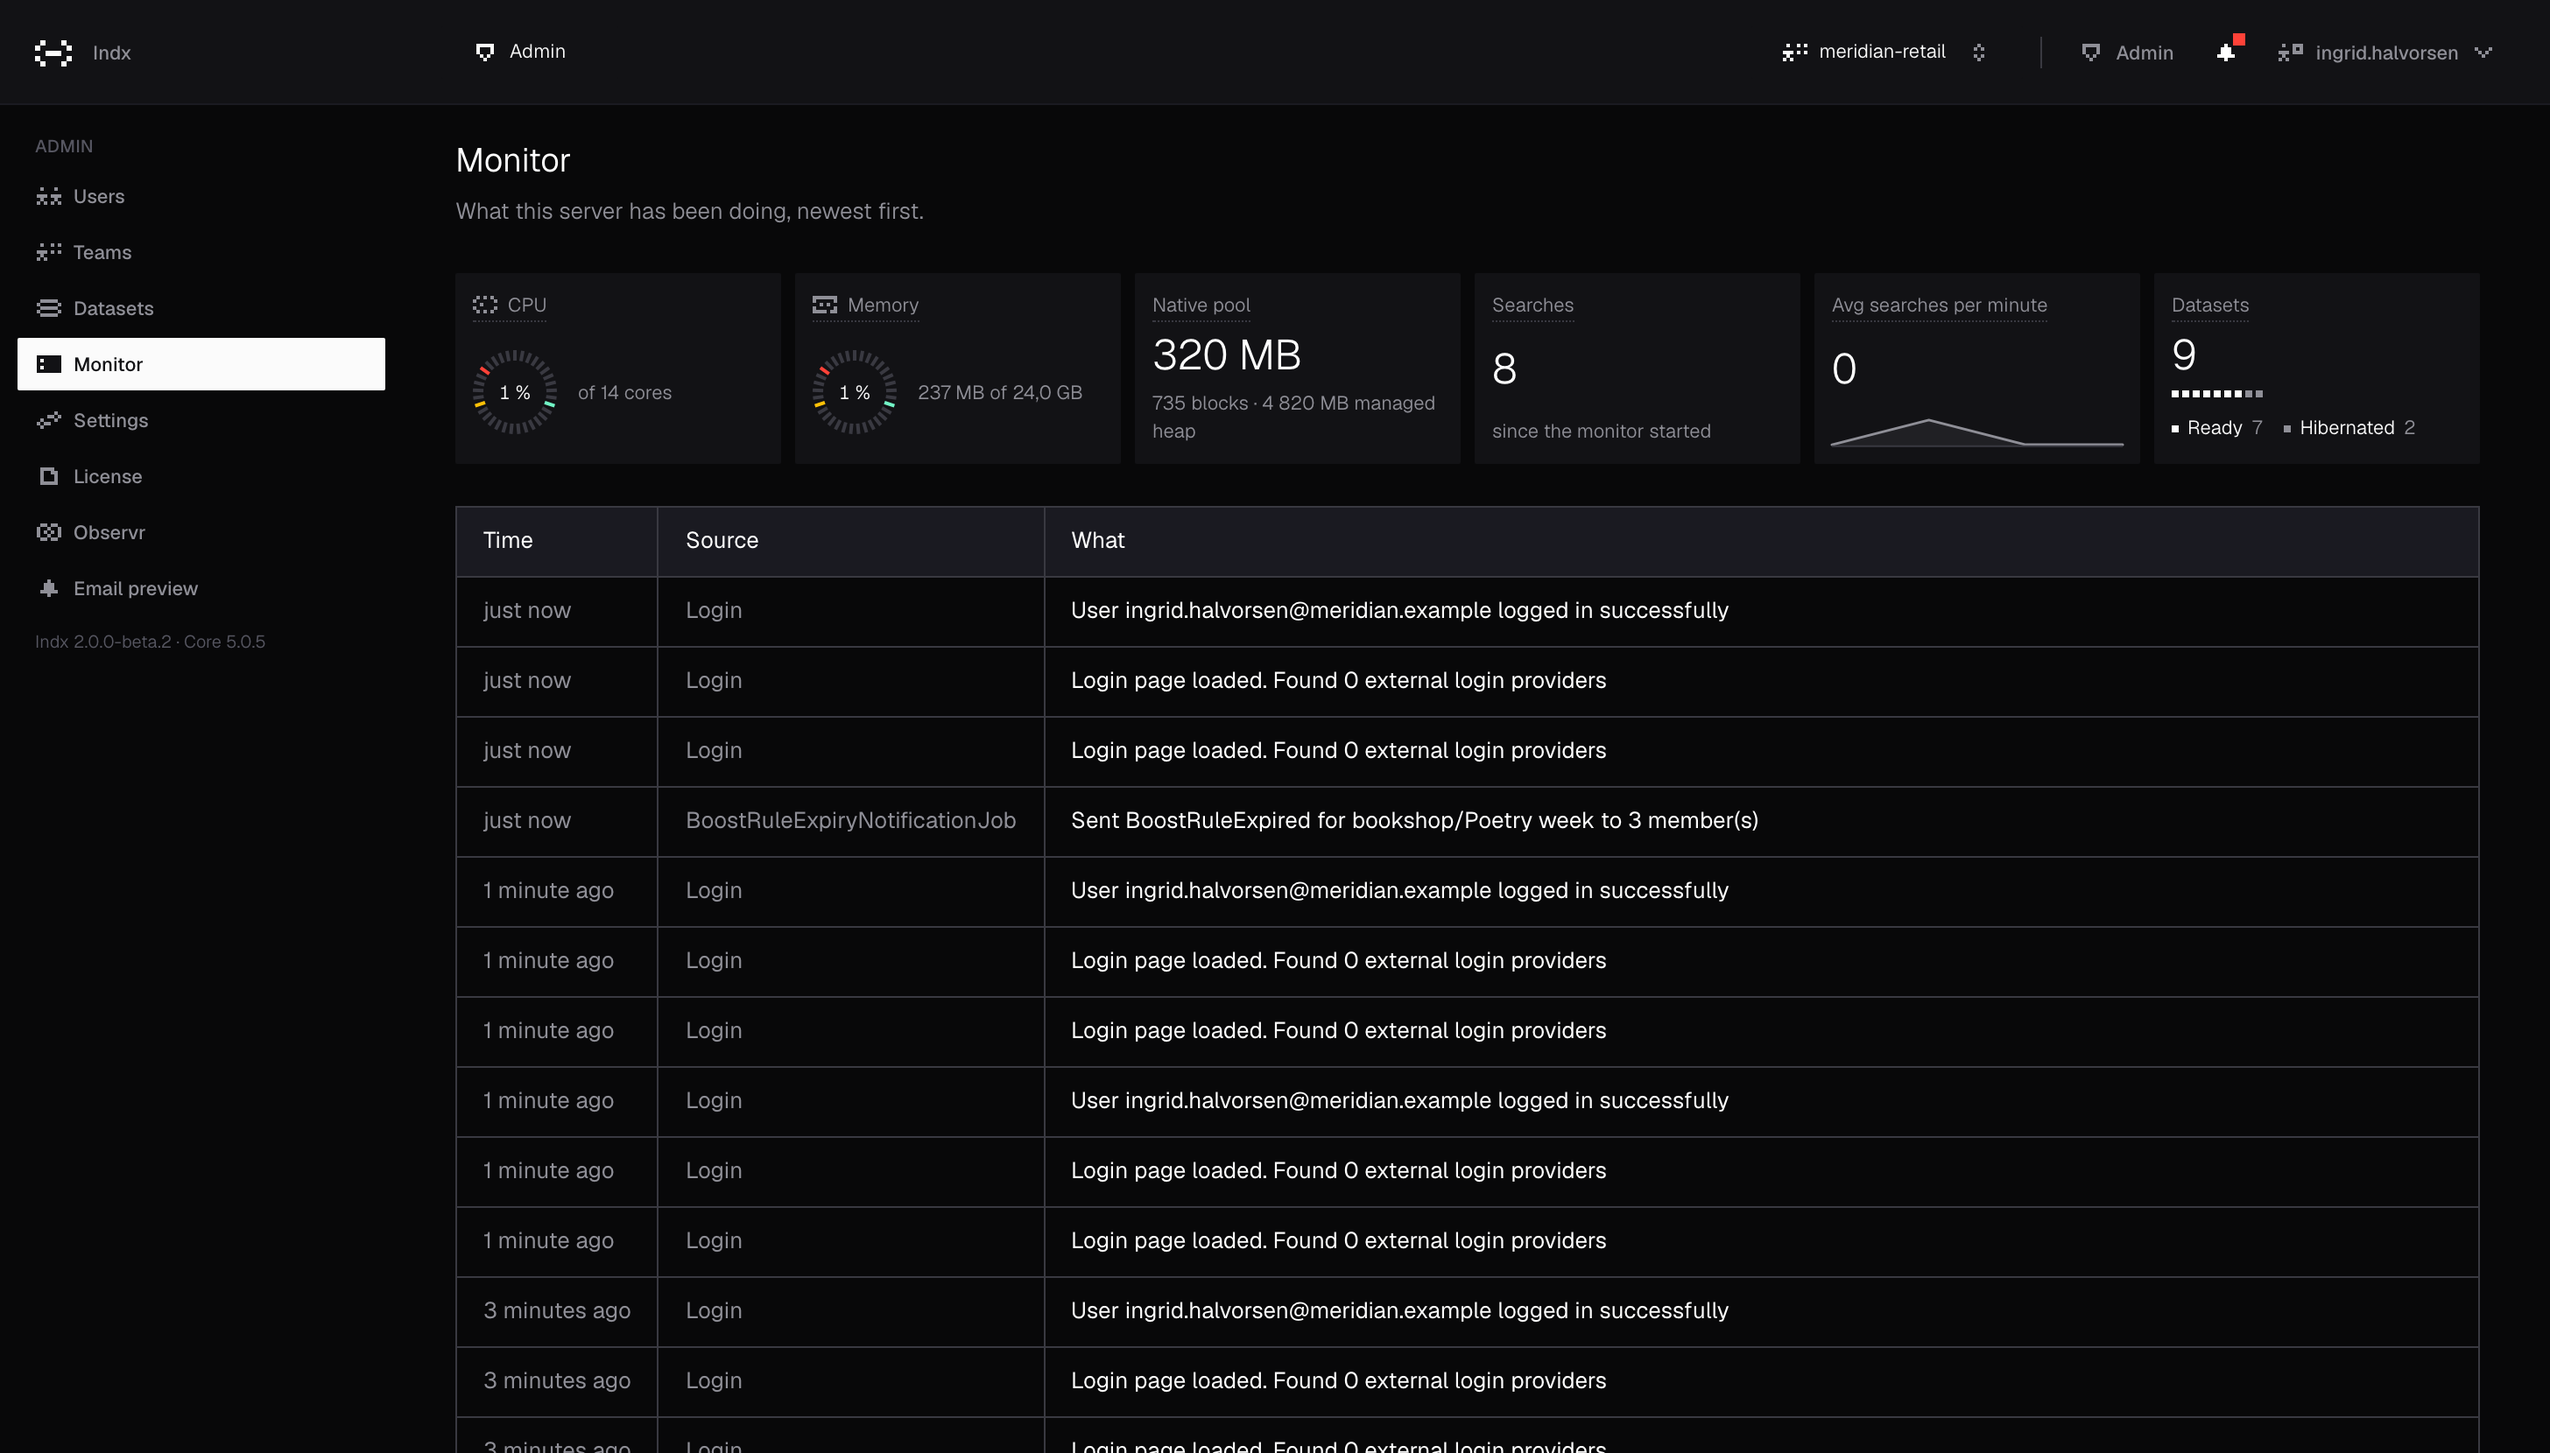
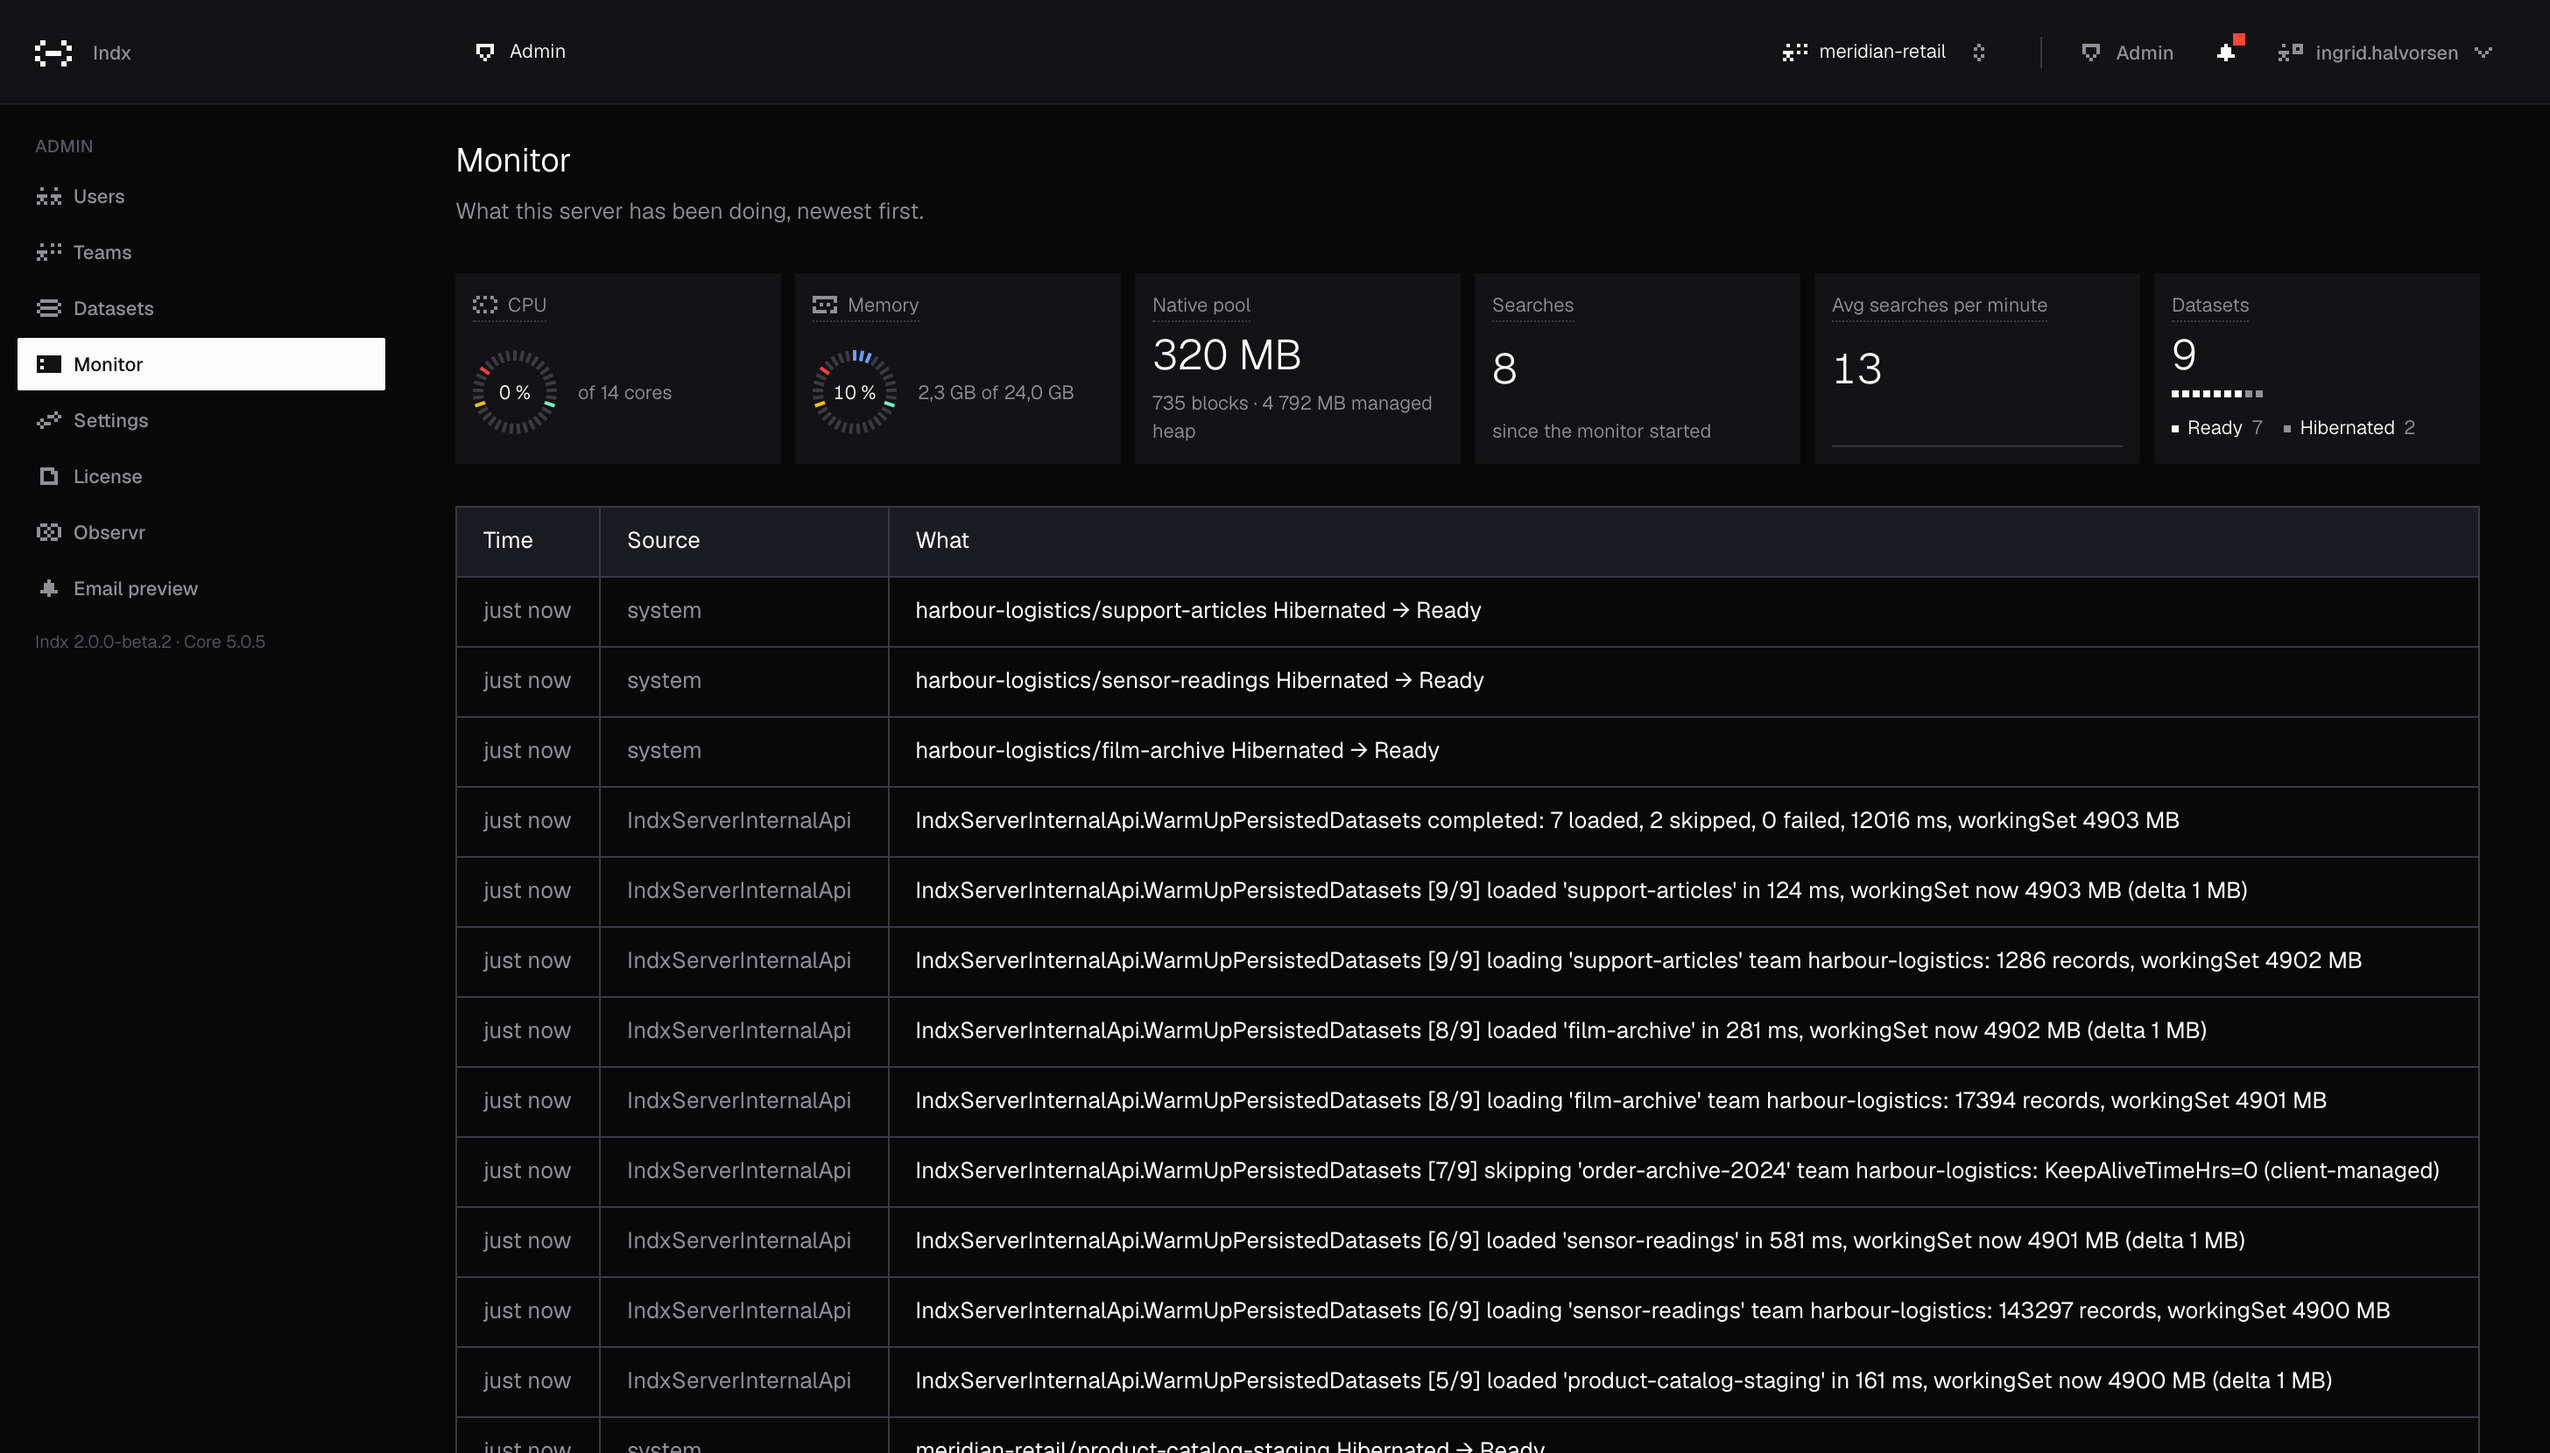
README images: a full fresh run, with the Status tab and the Statistics Overview added
Thirteen screens in the tour now. The Overview shot needed the console's inner container
scrolled, not the window; the capture rig does that for every section shot.

diff --git a/docs/images/README.md b/docs/images/README.md
@@ -9,16 +9,19 @@ the repository root, or `../images/<name>.png` from inside `docs/release-notes/`
 | `console-datasets-hibernated.png` | The same list with a hibernated dataset, so the chip is visible (the *list*; the page itself is `console-hibernated-wake.png`) |
 | `console-field-configuration.png` | Field configuration on a nested 71-field dataset: objects and their children, types, the four roles, weights |
 | `console-hibernated-wake.png` | A hibernated dataset's page, with its Wake up action |
+| `console-status.png` | The Status tab on `bookshop`: the index and usage tiles, each with its icon |
+| `console-categories.png` | The Categories tab on `product-catalog-staging`: the category paths as a tree, opened to the second level |
 | `console-boost-rules.png` | Boost rules on `bookshop`: four rules, one scheduled, one switched off |
 | `console-synonyms.png` | The synonym list on `bookshop`: two-way entries and one one-way |
 | `console-query-parameters.png` | Query parameters on `bookshop`: the coverage values a search takes when it leaves them out, two of them set by the dataset with their restore buttons |
 | `console-statistics.png` | The Statistics tab on `bookshop`: a month of searches, clicks and orders, the changes made to the dataset marked under the chart and listed below it. Seeded by `seed.mjs traffic` and `history` |
+| `console-statistics-overview.png` | The same tab's Overview section: the tiles, when people search as a grid and a clock, searches by surface, which result is chosen, how people type |
 | `console-statistics-coverage.png` | The same tab's Fuzzy search section: misspelled searches, how often a result was chosen anyway, and the result chosen most |
 | `admin-users.png` | Admin → Users: accounts and platform roles. Not in the root README — six images is already a lot for one page; this one is here for release notes |
 | `admin-teams.png` | Admin → Teams: both teams with their members and team roles |
 | `admin-datasets.png` | Admin → Datasets: every dataset across every team, with keep-alive |
-| `admin-monitor.png` | Admin → Monitor: the in-memory event stream |
-| `tour.gif` | The README's opening image: ten of the console shots above, 1.2 s each with a short crossfade, the dataset screens in the dataset page's own tab order. Built from them by `capture.mjs`, never edited by hand |
+| `admin-monitor.png` | Admin → Monitor: CPU and memory rings, the native pool, searches, every dataset's state, then the in-memory event stream |
+| `tour.gif` | The README's opening image: thirteen of the console shots above, 1.2 s each with a short crossfade, the dataset screens in the dataset page's own tab order. Built from them by `capture.mjs`, never edited by hand |
 | `tui.png` | The terminal monitor: instance figures, the dataset table, the event stream |
 
 The console shots are **2912x1660 PNG** — a 1456x830 viewport at `deviceScaleFactor: 2`, dark

diff --git a/README.md b/README.md
@@ -244,6 +244,9 @@ Below the chart, one section at a time, each with its own view settings:
   gets chosen; which languages visitors search in; how they type; and the search profile, six
   shares on one scale with the window before this one drawn behind, so a change is the shape
   moving.
+![The Overview section: the window's tiles, when people search as a week-by-hour grid and a clock
+of the day, searches by surface, which result is chosen and how people type](docs/images/console-statistics-overview.png)
+
 - **Top queries** gives each query its click-through and the average position of the result
   people chose. A low position means the right document was found and ranked too low. Order by
   searches or by click-through, ten more at a time.
@@ -496,6 +499,12 @@ Migrations run automatically on startup. No manual migration steps needed.
 > The **inverted search index is held in memory** and rebuilt on load; `indx.db` persists the documents and configuration, so a dataset can be unloaded to free memory and reloaded, re-indexed from the store, without re-uploading data.
 
 ## Dataset lifecycle: keep-alive & hibernation
+
+Each dataset's **Status** tab reads its state at a glance: the index, its document count, when it
+was last built and how long that took, and how it is kept in memory.
+
+![The Status tab: the dataset's state, documents, records on disk, last index build and time to
+index, then searches since load, keep-alive and last used](docs/images/console-status.png)
 
 Because the documents live in `indx.db` while only the index is in memory, datasets can be loaded and unloaded on demand to manage RAM. Each dataset has a **keep-alive policy** (`KeepAliveTimeHrs`), set per dataset on the **Datasets** page (a dataset's *Options* tab) or, across all teams, on **Admin → Datasets**:
 
